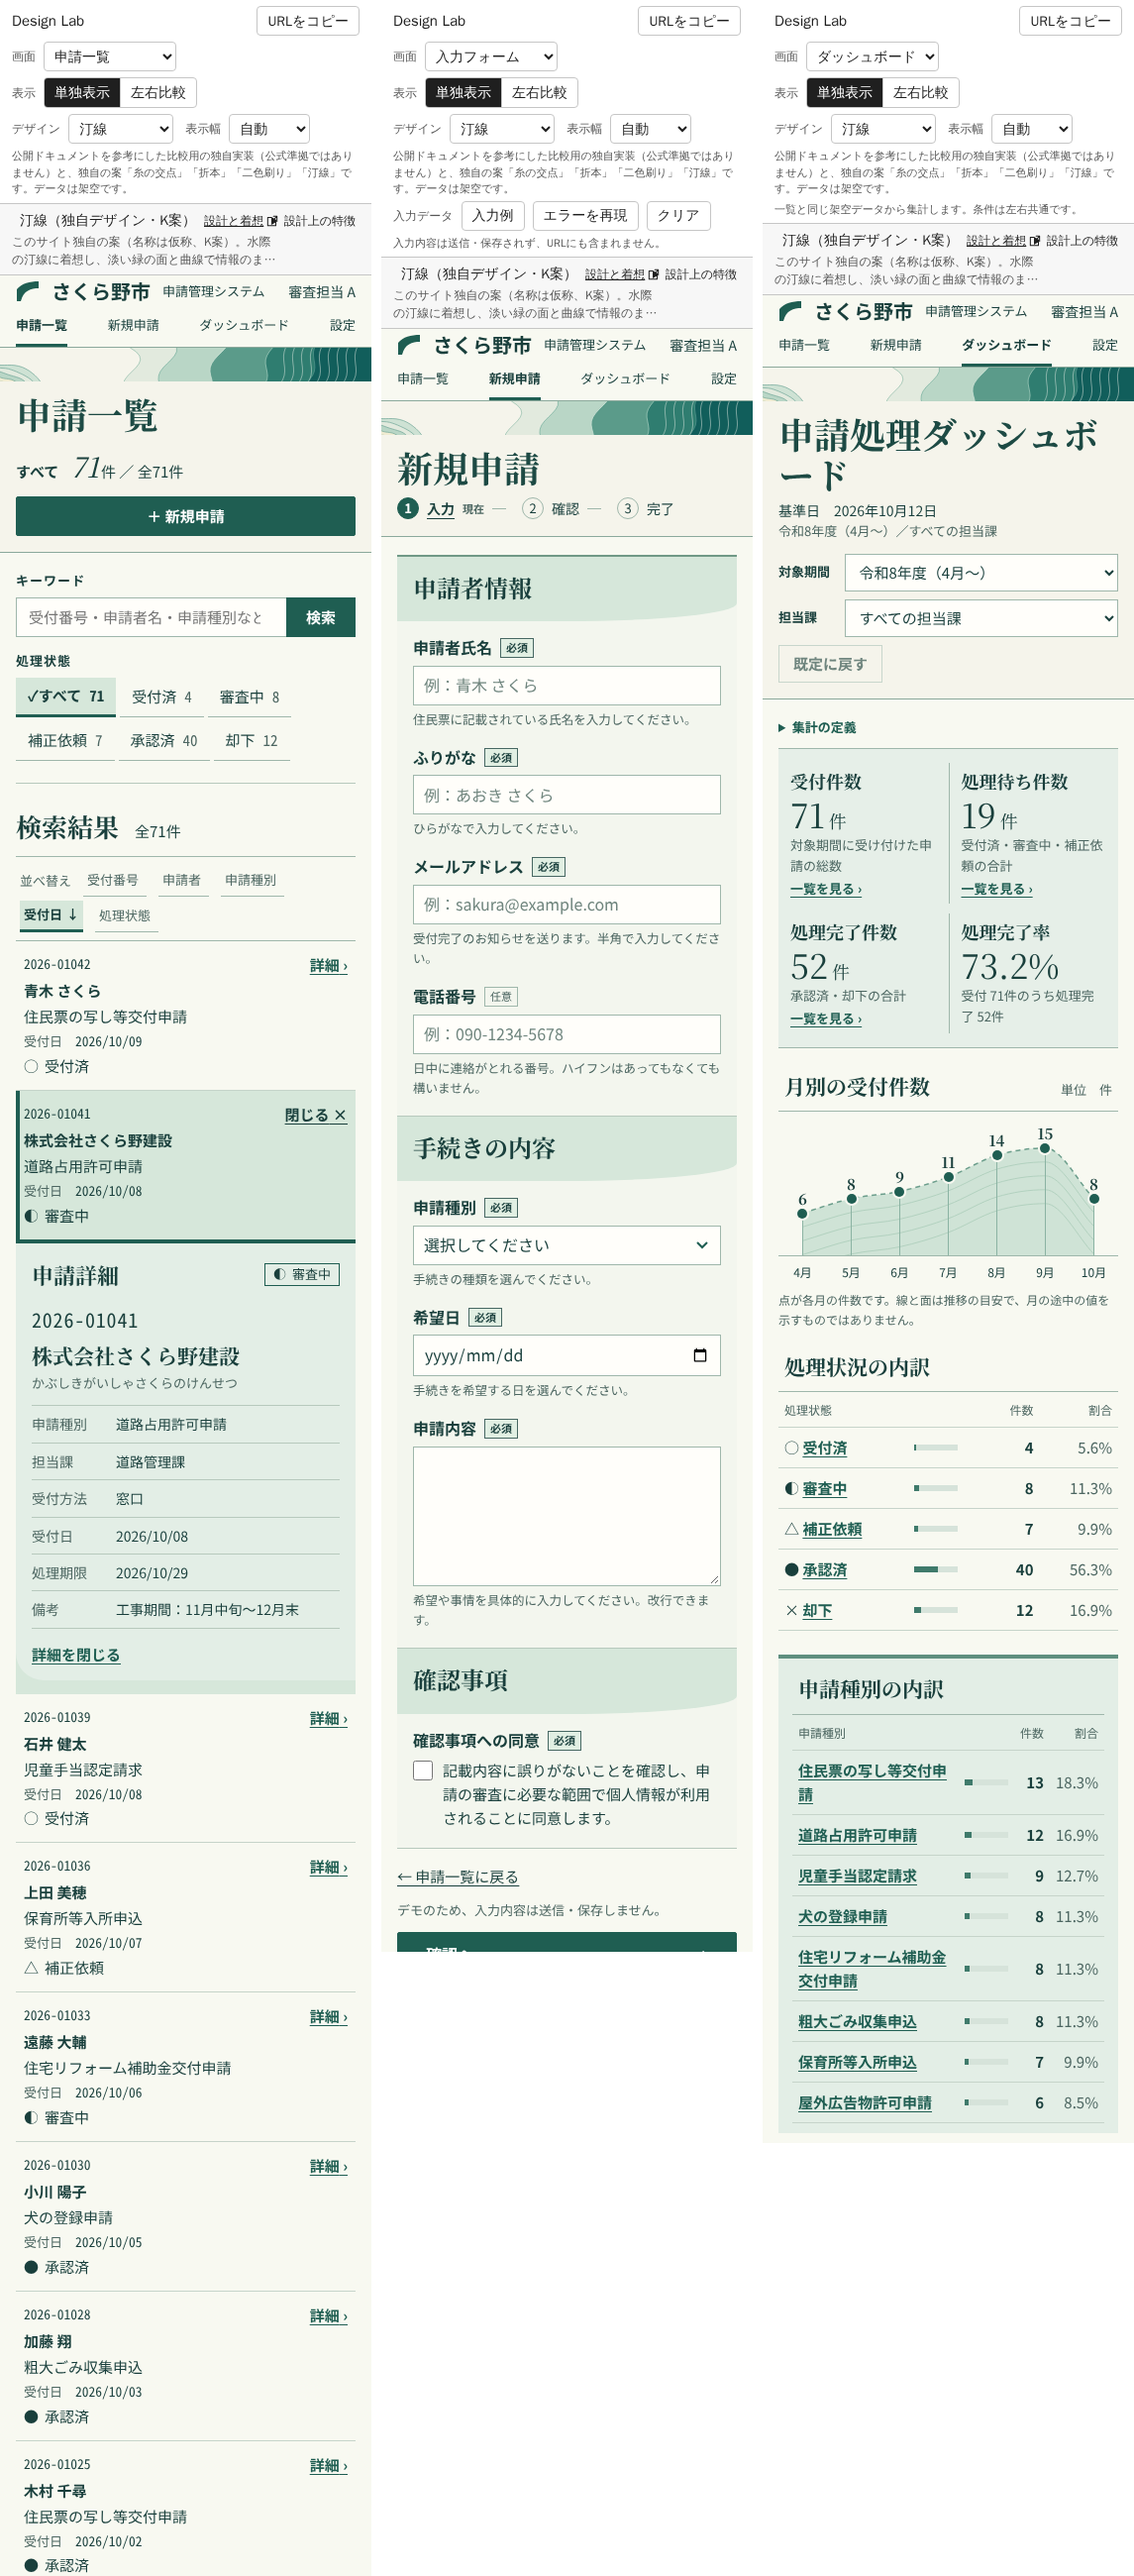
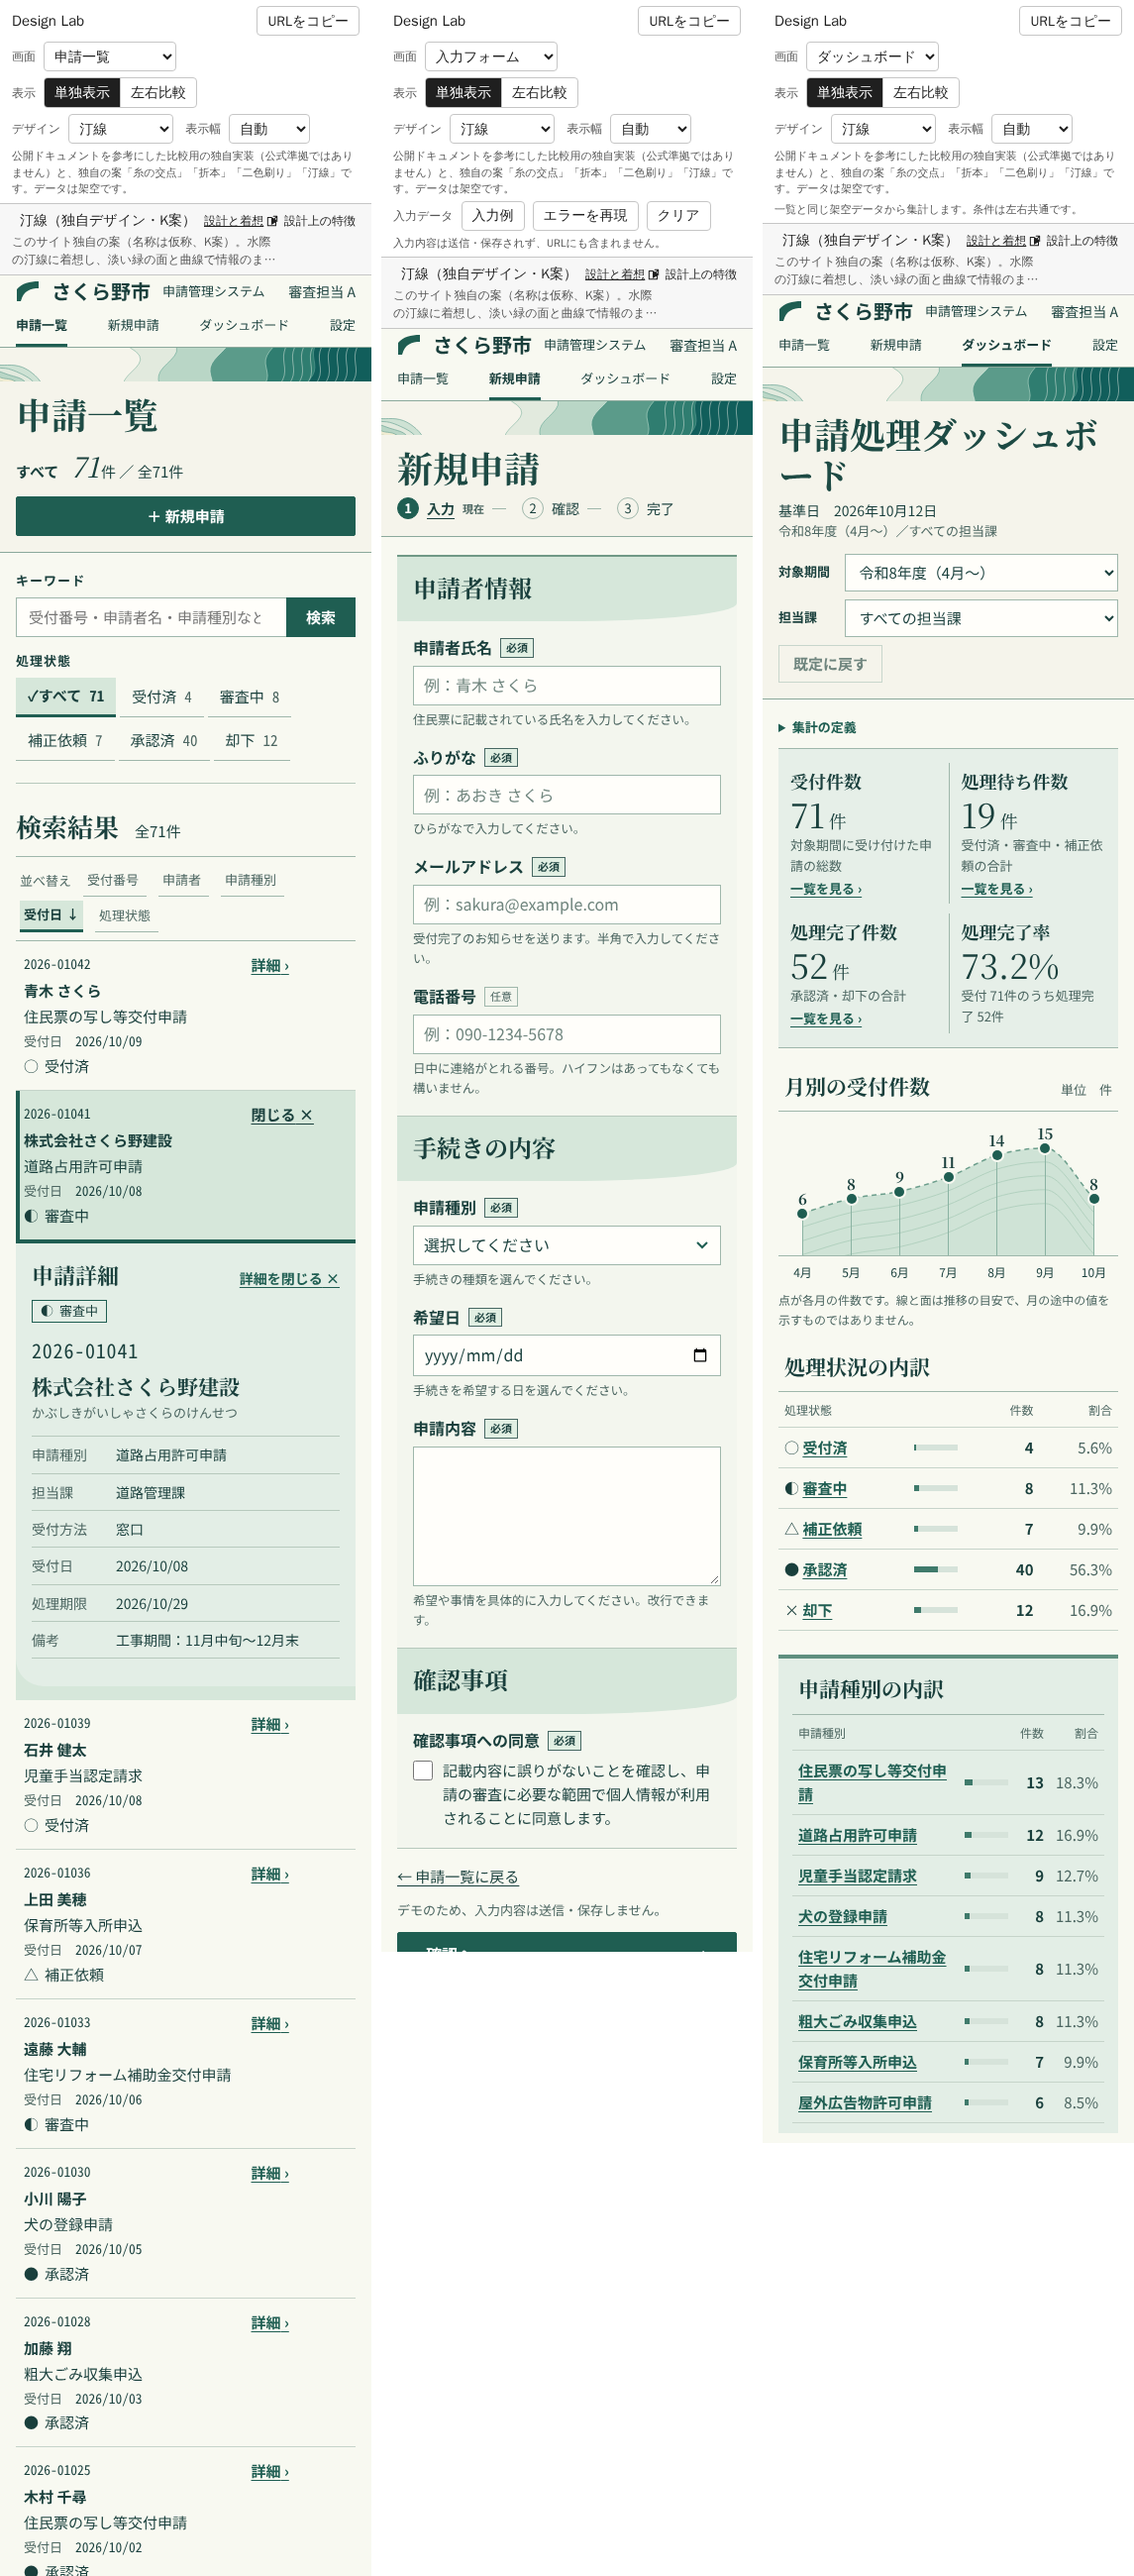
レビュー指摘に対応：詳細を開いたときの選択行の位置、低いペインの「詳細を閉じる」、月別の読み上げ
- 広いペイン（1000px以上）では、右の詳細の列を開く前から確保し、案内（「詳細」を選ぶと、ここに表示します）を置く。
  操作列の幅も固定し、詳細を開いても表の幅・行の折り返しが変わらないようにした（1024×768 の40件目で、
  選んだ行が表示範囲の外へ動いていた）
- 「詳細を閉じる」を詳細の見出しの横へ移した。詳細は表示できる高さ（100dvh − 300px、最小 260px）に収め、
  超える分は詳細の中でスクロールする（1280×650 で詳細の末尾と「閉じる」が画面外に留まっていた）
- 月別の点の上の数字は aria-hidden にし、各月を「4月 6件」と一度だけ読み上げる（data-month はそのまま）
- E2E：3つの再現条件をそれぞれ確かめる（いずれも修正前のコードでは失敗することを確認）
- このPRで追加した画面写真と比較ガイドの文言を更新

Claude-Session: https://claude.ai/code/session_016WQqJD6APGGPPhg2SEfqha

diff --git a/site/assets/css/designs/k-shoreline.css b/site/assets/css/designs/k-shoreline.css
@@ -100,6 +100,7 @@
 .ds-k-shoreline .kl-st { white-space: nowrap; }
 .ds-k-shoreline .kl-st span { margin-right: 6px; }
 .ds-k-shoreline .kl-act { white-space: nowrap; }
+.ds-k-shoreline :is(.kl-col-act, .kl-act) { width: 6.5em; } /* 「詳細 ›」と「閉じる ×」で列の幅が変わり、行が折り返し直さないように */
 .ds-k-shoreline .kl-table tr.is-open td { background: var(--k-rail); }
 .ds-k-shoreline .kl-table tr.is-open td:first-child { box-shadow: inset 4px 0 0 var(--k-green); }
 .ds-k-shoreline .kl-table tr.is-open .kl-act .kl-link { color: var(--k-ink); }
@@ -110,9 +111,10 @@
 .ds-k-shoreline .kl-shore path { fill: none; stroke: #a9cdb9; stroke-width: 1.2; vector-effect: non-scaling-stroke; }
 .ds-k-shoreline .kl-shore .kl-shore__sea { fill: var(--k-sea); stroke: none; }
 .ds-k-shoreline .kl-detail__in { padding: 18px 20px 20px 8px; background: var(--k-sea); border-top: 4px solid var(--k-green); }
-.ds-k-shoreline .kl-detail__head { display: flex; flex-wrap: wrap; align-items: center; justify-content: space-between; gap: 8px; }
+.ds-k-shoreline .kl-detail__head { display: flex; flex-wrap: wrap; align-items: baseline; justify-content: space-between; gap: 4px 8px; }
+.ds-k-shoreline .kl-detail__close { font-size: 14px; }
 .ds-k-shoreline .kl-detail h3 { font-family: var(--k-mincho); font-size: 22px; }
-.ds-k-shoreline .kl-badge { padding: 0 8px; border: 1px solid var(--k-green); font-size: 13px; }
+.ds-k-shoreline .kl-badge { width: fit-content; margin-top: 8px; padding: 0 8px; border: 1px solid var(--k-green); font-size: 13px; }
 .ds-k-shoreline .kl-detail__note { margin-top: 6px; font-size: 13px; color: var(--k-muted); }
 .ds-k-shoreline .kl-detail__id { margin-top: 12px; font-family: var(--k-mono); font-size: 20px; letter-spacing: 0.04em; }
 .ds-k-shoreline .kl-detail__name { margin-top: 4px; font-family: var(--k-mincho); font-size: 21px; font-weight: 700; }
@@ -121,14 +123,22 @@
 .ds-k-shoreline .kl-detail dl div { display: grid; grid-template-columns: 5.5em minmax(0, 1fr); gap: 8px; padding: 7px 0; border-bottom: 1px solid var(--k-sep); font-size: 14px; }
 .ds-k-shoreline .kl-detail dt { color: var(--k-muted); }
 .ds-k-shoreline .kl-work > .kl-detail { margin-bottom: 14px; } /* 一覧に無い申請の詳細（表の上） */
+.ds-k-shoreline .kl-detail-slot { display: none; }
 
 /* 広いペイン：選んだ行の直後の詳細の行を、表の右の列へ移す（DOM・Tab の順は行の直後のまま）。
    列は結果の高さいっぱいに伸ばし、詳細の面はその中で画面の上に留まる（試作と同じ sticky） */
 @container frame (min-width: 1000px) {
-  .ds-k-shoreline .kl-work.has-detail { padding-right: 300px; }
-  .ds-k-shoreline .kl-detail-row { position: absolute; top: 44px; right: 0; bottom: 0; display: block; width: 300px; }
+  /* 右の列は詳細を開く前から確保する（開いた瞬間に表が狭まって行が折り返し直し、選んだ行が見えなくなるのを防ぐ） */
+  .ds-k-shoreline .kl-work.has-rows { padding-right: 300px; }
+  .ds-k-shoreline :is(.kl-detail-row, .kl-detail-slot) { position: absolute; top: 44px; right: 0; bottom: 0; display: block; width: 300px; }
   .ds-k-shoreline .kl-detail-row td { display: block; height: 100%; padding: 0; border: 0; background: none; }
-  .ds-k-shoreline .kl-detail-row .kl-detail { position: sticky; top: 12px; }
+  /* 詳細は画面の上に留める。表示できる高さを超える分は詳細の中でスクロールし、見出しの横の「詳細を閉じる」はいつも見える */
+  .ds-k-shoreline .kl-detail-row .kl-detail { position: sticky; top: 12px; display: flex; max-height: max(260px, calc(100dvh - 300px)); }
+  .ds-k-shoreline .kl-detail-row .kl-shore { flex: none; height: auto; }
+  .ds-k-shoreline .kl-detail-row .kl-detail__in { display: flex; flex-direction: column; flex: 1 1 auto; min-width: 0; min-height: 0; }
+  .ds-k-shoreline .kl-detail-row .kl-detail__body { min-height: 0; overflow-y: auto; overscroll-behavior: contain; }
+  .ds-k-shoreline .kl-detail-slot__text { position: sticky; top: 12px; display: grid; grid-template-columns: 26px minmax(0, 1fr); min-height: 120px; color: var(--k-muted); font-size: 14px; }
+  .ds-k-shoreline .kl-detail-slot__text span { padding: 18px 16px; background: var(--k-sea); border-top: 4px solid var(--k-sep); }
 }
 
 /* ---------- 新規申請フォーム ---------- */

diff --git a/site/assets/js/designs/k-shoreline.js b/site/assets/js/designs/k-shoreline.js
@@ -70,7 +70,10 @@ function detail(d, ctx, { detached = false } = {}) {
   return html`<section class="kl-detail" aria-labelledby="${ctx.uid}-kl-detail">
     ${SHORE}
     <div class="kl-detail__in">
-      <div class="kl-detail__head"><h3 id="${ctx.uid}-kl-detail" tabindex="-1" data-focus="detail">申請詳細</h3><span class="kl-badge">${statusText(d.status)}</span></div>
+      <div class="kl-detail__head"><h3 id="${ctx.uid}-kl-detail" tabindex="-1" data-focus="detail">申請詳細</h3>
+        <button type="button" class="kl-link kl-detail__close" data-action="close-detail">詳細を閉じる<span class="visually-hidden">（${d.id}）</span><span aria-hidden="true"> ×</span></button></div>
+      <div class="kl-detail__body">
+      <p class="kl-badge">${statusText(d.status)}</p>
       ${detached ? html`<p class="kl-detail__note">現在の検索条件では一覧に表示されていない申請です。</p>` : ''}
       <p class="kl-detail__id">${d.id}</p>
       <p class="kl-detail__name">${d.applicant}</p>
@@ -83,7 +86,7 @@ function detail(d, ctx, { detached = false } = {}) {
         <div><dt>処理期限</dt><dd>${date(d.dueAt)}</dd></div>
         <div><dt>備考</dt><dd>${d.note || 'なし'}</dd></div>
       </dl>
-      <button type="button" class="kl-link" data-action="close-detail">詳細を閉じる<span class="visually-hidden">（${d.id}）</span></button>
+      </div>
     </div>
   </section>`;
 }
@@ -117,7 +120,7 @@ function listPage(model, ctx) {
           <button type="button" class="kl-link" data-action="clear-scope">引き継ぎを解除</button>
         </div>`
       : ''}
-    <div class="kl-work ${inRows ? 'has-detail' : ''}">
+    <div class="kl-work ${model.rows.length ? 'has-rows' : ''} ${inRows ? 'has-detail' : ''}">
       <div class="kl-results__head"><h3>検索結果</h3><p>${countText(model)}${model.keyword ? html`（「${model.keyword}」）` : ''}</p>
         ${model.filtered ? html`<button type="button" class="kl-link" data-action="clear">条件をクリア</button>` : ''}</div>
       ${model.detail && !inRows ? detail(model.detail, ctx, { detached: true }) : ''}
@@ -126,6 +129,7 @@ function listPage(model, ctx) {
             <thead><tr>${model.columns.map(sortHead)}<th scope="col" class="kl-col-act"><span class="visually-hidden">操作</span></th></tr></thead>
             <tbody>${model.rows.map((r) => row(r, model, ctx))}</tbody></table>`
         : html`<p class="kl-empty">条件に一致する申請はありません。${emptyHint(model)}</p>`}
+      ${model.rows.length && !inRows ? html`<div class="kl-detail-slot"><p class="kl-detail-slot__text">${SHORE}<span>申請の「詳細」を選ぶと、ここに表示します。</span></p></div>` : ''}
     </div>`;
 }
 

diff --git a/site/assets/js/designs/k-shoreline.dashboard.js b/site/assets/js/designs/k-shoreline.dashboard.js
@@ -76,7 +76,7 @@ function months(d, ctx) {
         <path class="kd-chart__line" d="${raw(line)}" />
       </svg>
       <ol class="kd-chart__points" aria-label="月別の受付件数（${d.period.rangeText}）">
-        ${pts.map((p) => html`<li style="left:${p.x.toFixed(2)}%;--y:${p.y.toFixed(2)}%"><span class="kd-chart__stem" aria-hidden="true"></span><span class="kd-chart__dot" aria-hidden="true"></span><b data-month="${p.m.key}">${p.m.count}</b><span class="kd-chart__month">${p.m.label}</span><span class="visually-hidden">${p.m.count}件</span></li>`)}
+        ${pts.map((p) => html`<li style="left:${p.x.toFixed(2)}%;--y:${p.y.toFixed(2)}%"><span class="kd-chart__stem" aria-hidden="true"></span><span class="kd-chart__dot" aria-hidden="true"></span><b data-month="${p.m.key}" aria-hidden="true">${p.m.count}</b><span class="kd-chart__month">${p.m.label}</span><span class="visually-hidden">${p.m.count}件</span></li>`)}
       </ol>
     </div>
     <p class="kd-note">点が各月の件数です。線と面は推移の目安で、月の途中の値を示すものではありません。</p>
